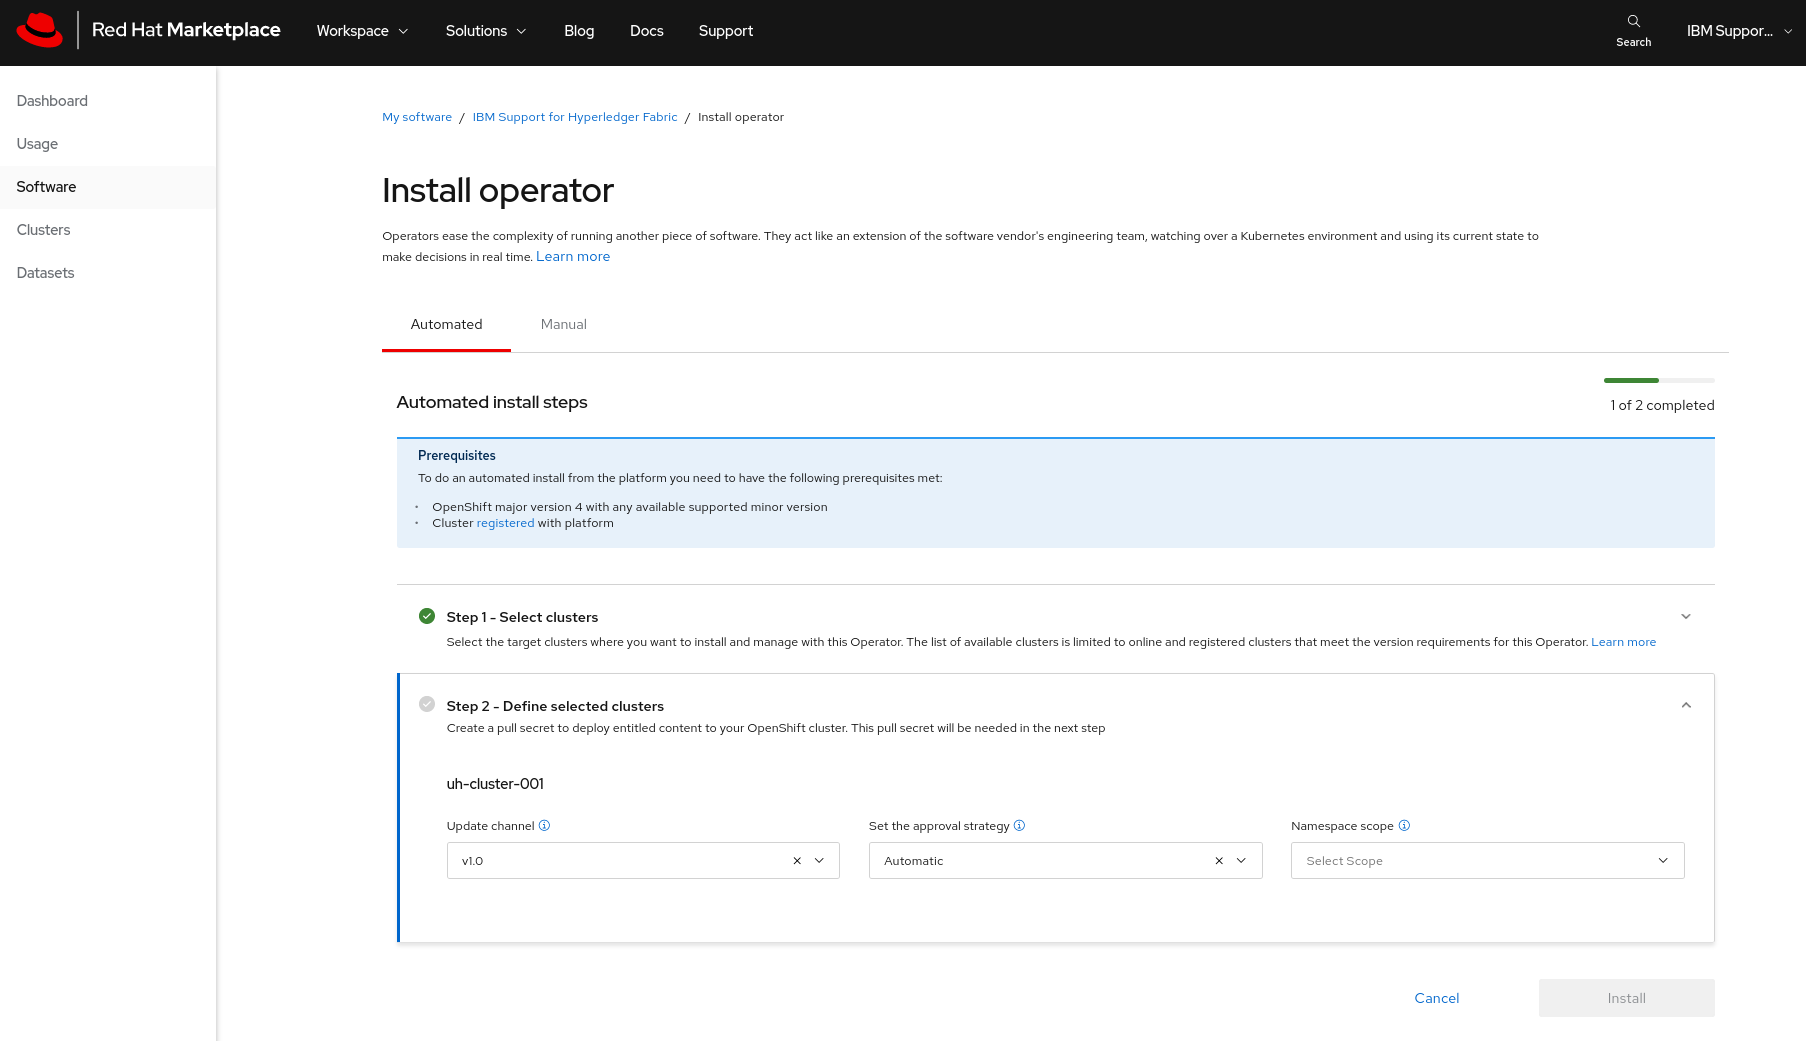
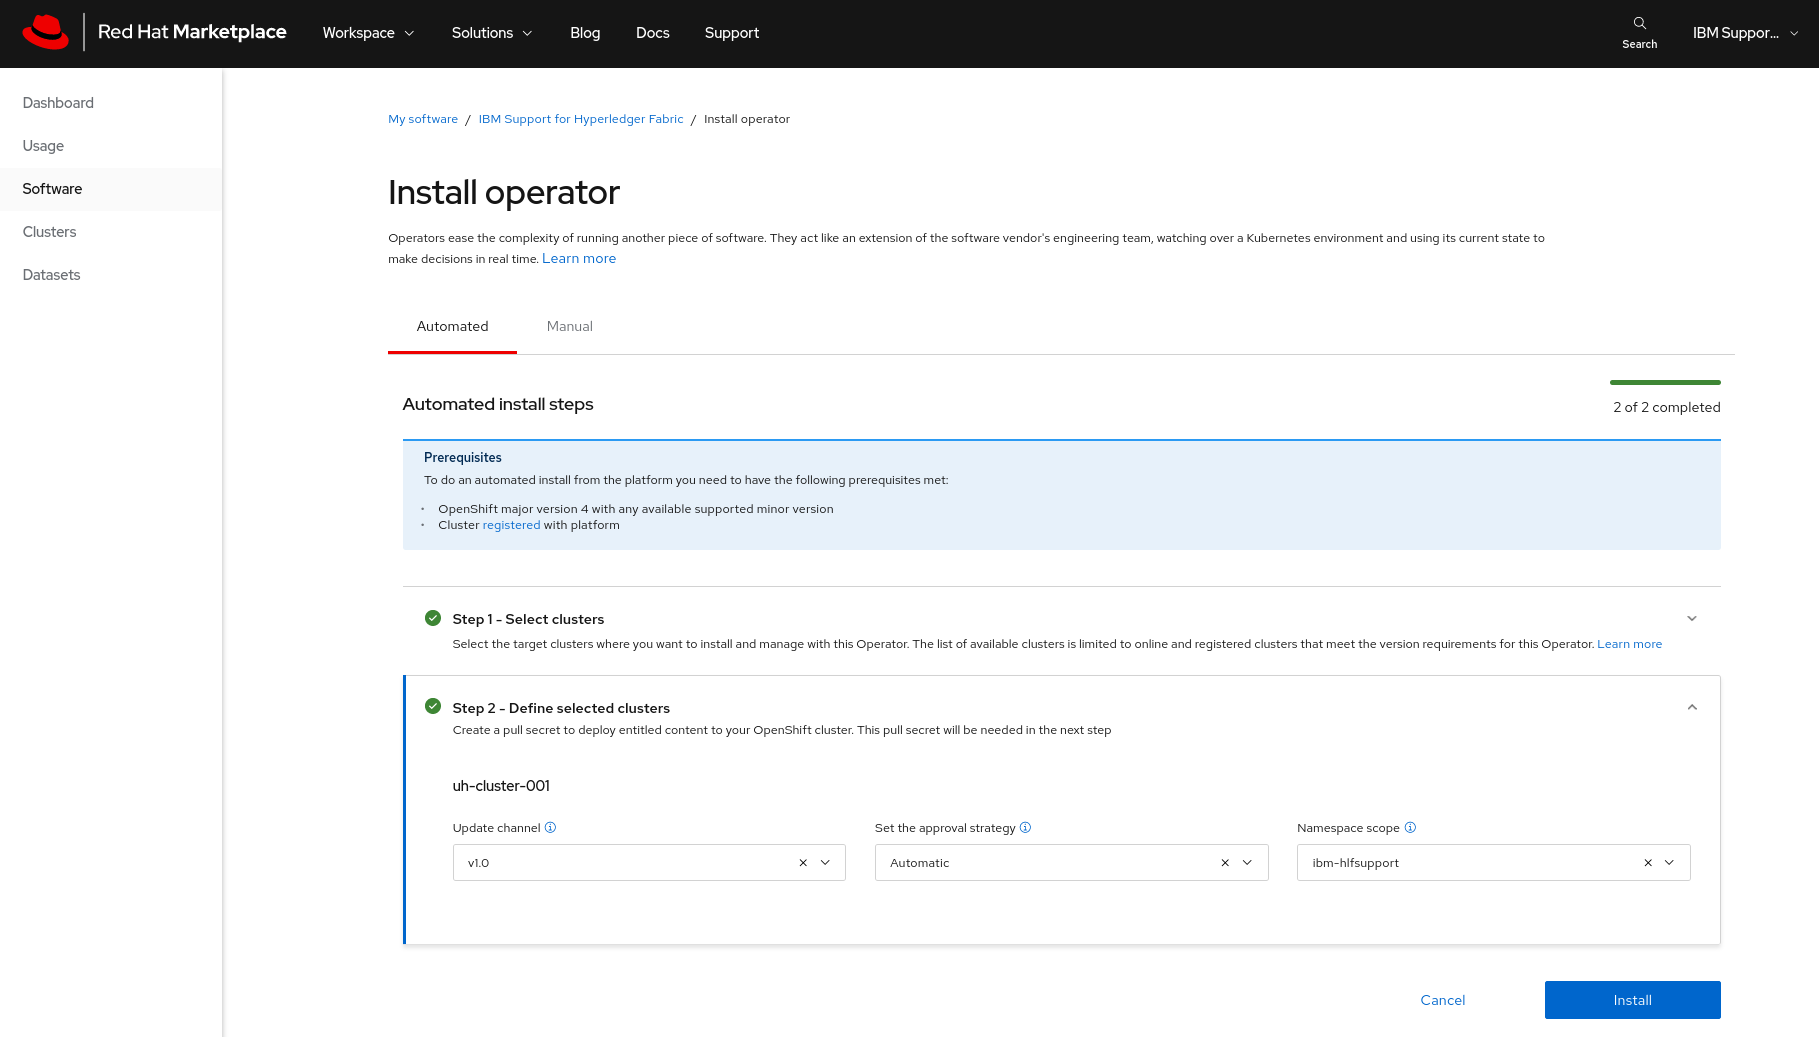
Merge pull request #173 from joshh/installop

diff --git a/howto/console-deploy-ocp-rhm.md b/howto/console-deploy-ocp-rhm.md
@@ -143,8 +143,8 @@ Install the {{site.data.keyword.IBM_notm}} Support for Hyperledger Fabric operat
 
 1. Click **My software** > **Visit the Marketplace**.
 2. In the search bar, type **blockchain** to load the blockchain tile. Select **{{site.data.keyword.IBM_notm}} Support for Hyperledger Fabric**.
-3. Install the operator as follows:
-   a. Click **Install operator**:
+3. Install the operator as follows:  
+   a. Click **Install operator**:  
    ![Click Install operator](../images/install-operator-1.png "Install the operator"){: caption="Figure 1. Click Install operator" caption-side="bottom"}
    b. Select clusters to install the operator on:
    ![Select clusters](../images/install-operator-2.png "Select clusters"){: caption="Figure 2. Select clusters to install the operator on" caption-side="bottom"}
@@ -152,6 +152,7 @@ Install the {{site.data.keyword.IBM_notm}} Support for Hyperledger Fabric operat
    c. Select the **Namespace scope** and click **Install**:
    ![Select namespace scope](../images/install-operator-4.png "Select the namespace scope"){: caption="Figure 4. Select the namespace scope" caption-side="bottom"}
    ![Selected namespace scope](../images/install-operator-5.png "Selected namespace scope"){: caption="Figure 5. Selected namespace scope" caption-side="bottom"}
+   d. The operator will install:
    ![Installing operator](../images/install-operator-6.png "Installing the operator"){: caption="Figure 6. Installing operator" caption-side="bottom"}
    ![Operator installed](../images/install-operator-7.png "Operator installed"){: caption="Figure 7. Operator installed" caption-side="bottom"}
 
